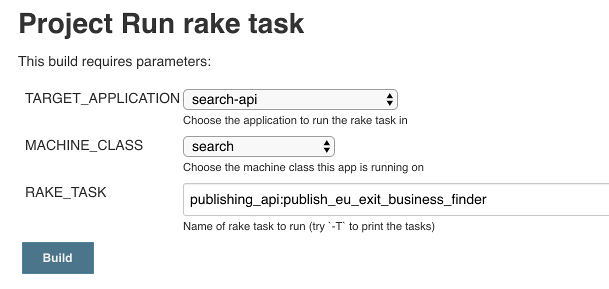
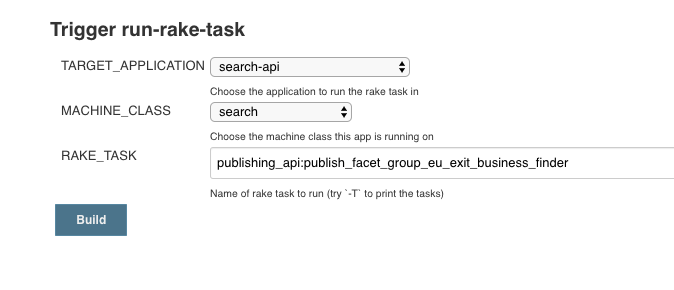
Update docs on publishing the business finder
The facets for the business finder are now in their own content item. There are already
docs for updating and publishing facets, these docs now link to them.

diff --git a/source/manual/business-readiness-publish-changes.html.md b/source/manual/business-readiness-publish-changes.html.md
@@ -5,7 +5,7 @@ section: Business readiness finder
 layout: manual_layout
 parent: "/manual.html"
 important: true
-last_reviewed_on: 2019-04-10
+last_reviewed_on: 2019-04-29
 review_in: 3 months
 ---
 
@@ -31,23 +31,24 @@ The content item for the finder is updated from a [YAML file][govuk-app-deployme
 
 ## Updating the business readiness finder
 
-The content item for the business readiness finder and its email signup page are published by `search-api`. However the actual config is read in from [govuk-app-deployment-secrets][govuk-app-deployment-secrets].
+The content item for the business readiness finder and its email signup page are published by `search-api`. However the actual config is read in from [govuk-app-deployment-secrets][govuk-app-deployment-secrets], and config for the facet group is managed in [content-tagger][content-tagger].
 
-1. Update [govuk-app-deployment-secrets][govuk-app-deployment-secrets]
-2. Merge the changes to [govuk-app-deployment-secrets][govuk-app-deployment-secrets]
-3. Re-deploy `search-api` so it can pick up the changes in [govuk-app-deployment-secrets][govuk-app-deployment-secrets]
-
-  >> If you have made changes to the facets, you may also need to re-deploy email-alert-api and finder-frontend
-
-4. Run the [`publishing_api:publish_eu_exit_business_finder` rake task][staging-rake-task] in `search-api` to publish the changes. If the finder config has the facets defined in a separate `facet_group` content item and the `links` key in the config contains an entry of `facet_group` with a content id, the task is [`publishing_api:publish_facet_group_eu_exit_business_finder` rake task][staging-rake-task-facet-group]:
+1. Update the facet group in [content-tagger][content-tagger]
+2. Merge the changes to [content-tagger][content-tagger]
+3. Deploy content-tagger
+4. [Import and Publish the facet group](/manual/publishing-a-facet-group.html#how-to-import-or-update-a-facet-group)
+5. Update [govuk-app-deployment-secrets][govuk-app-deployment-secrets]
+6. Merge the changes to [govuk-app-deployment-secrets][govuk-app-deployment-secrets]
+7. Re-deploy `search-api` so it can pick up the changes in [govuk-app-deployment-secrets][govuk-app-deployment-secrets]
+8. Run the [`publishing_api:publish_facet_group_eu_exit_business_finder` rake task][staging-rake-task-facet-group] in `search-api` to publish the changes:
 
     ![download](images/publish-business-readiness.png)
 
-5. If you are making changes to the schema, you may also need to [reindex elasticsearch](/manual/reindex-elasticsearch.html).
+9. If you are making changes to the schema, you may also need to [reindex elasticsearch](/manual/reindex-elasticsearch.html).
 
 
 [business-readiness-finder]: https://www.gov.uk/find-eu-exit-guidance-business
+[content-tagger]: https://github.com/alphagov/content-tagger/blob/master/lib/data/find-eu-exit-guidance-business.yml
 [finder-frontend]: https://github.com/alphagov/finder-frontend/blob/3d7f25ddca4bedd9d9fb750fb1d651964cf2a34b/lib/prepare_business_uk_leaving_eu.yaml
 [govuk-app-deployment-secrets]: https://github.com/alphagov/govuk-app-deployment-secrets/blob/9a39969d504543e040ffc1afc70924e23d249033/shared_config/find-eu-exit-guidance-business.yml
-[staging-rake-task]:https://deploy.blue.staging.govuk.digital/job/run-rake-task/parambuild/?TARGET_APPLICATION=search-api&MACHINE_CLASS=search&RAKE_TASK=publishing_api:publish_eu_exit_business_finder
 [staging-rake-task-facet-group]:https://deploy.blue.staging.govuk.digital/job/run-rake-task/parambuild/?TARGET_APPLICATION=search-api&MACHINE_CLASS=search&RAKE_TASK=publishing_api:publish_facet_group_eu_exit_business_finder
